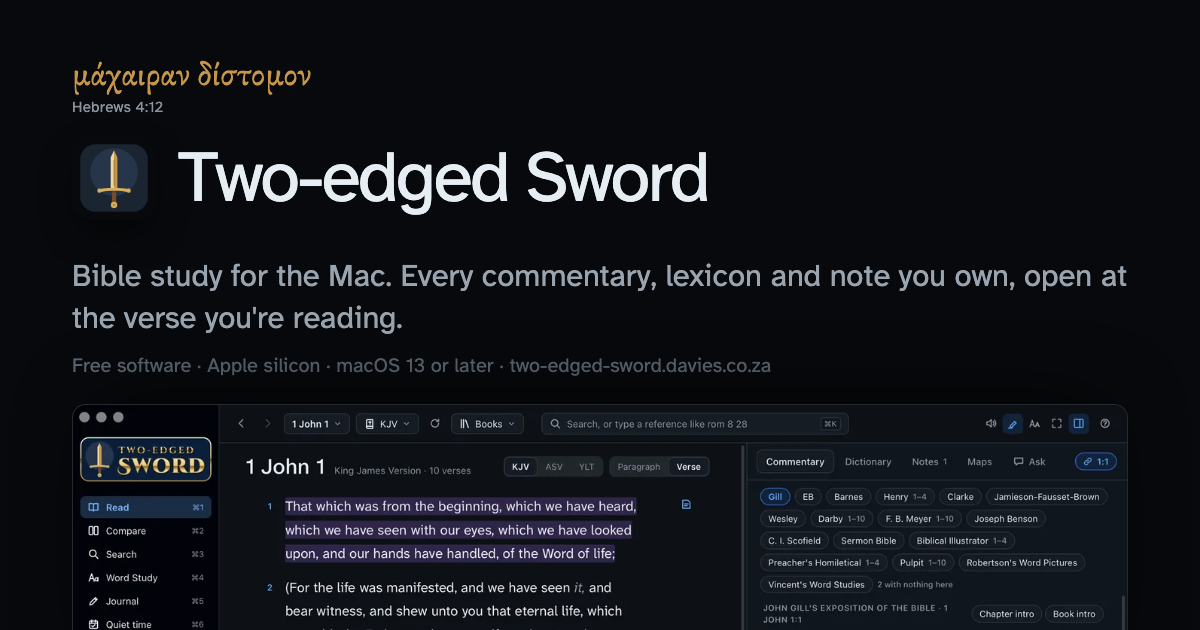
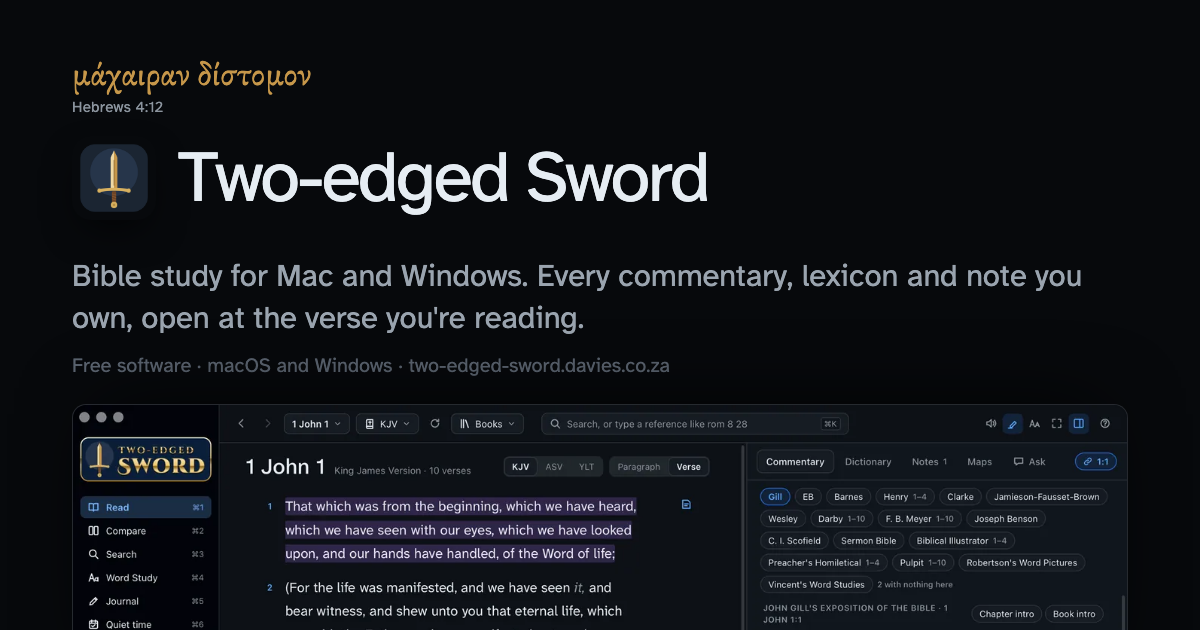
The app is for macOS and Windows, as the README, the guides and the website now say: a Windows download (Two-edged-Sword_x64-setup.exe from the latest release) and its first run beside the Mac's, an On Windows section in the help listing what differs there, Check for Updates… where Windows has it, t

Changed region(s): [[0.0617, 0.4825, 0.4933, 0.5429], [0.2158, 0.4222, 0.9558, 0.4825], [0.1542, 0.573, 0.6475, 0.6032]]

diff --git a/site/index.html b/site/index.html
@@ -3,8 +3,8 @@
 <head>
 <meta charset="utf-8">
 <meta name="viewport" content="width=device-width, initial-scale=1">
-<title>Two-edged Sword: Bible study for Mac</title>
-<meta name="description" content="Two-edged Sword is a free Bible study app for the Mac: every commentary, lexicon and note you own, open at the verse you're reading, with Greek and Hebrew word by word, an AI assistant that answers from your library, a journal and Quiet time plans.">
+<title>Two-edged Sword: Bible study for Mac and Windows</title>
+<meta name="description" content="Two-edged Sword is a free Bible study app for Mac and Windows: every commentary, lexicon and note you own, open at the verse you're reading, with Greek and Hebrew word by word, an AI assistant that answers from your library, a journal and Quiet time plans.">
 <meta name="google-site-verification" content="i4TUXxiTMawK83ozrMTEYSBRZYrrRbZOhnqJokfEkfU">
 <link rel="canonical" href="https://two-edged-sword.davies.co.za/">
 <meta name="color-scheme" content="dark">
@@ -12,15 +12,15 @@
 <meta property="og:type" content="website">
 <meta property="og:site_name" content="Two-edged Sword">
 <meta property="og:url" content="https://two-edged-sword.davies.co.za/">
-<meta property="og:title" content="Two-edged Sword: Bible study for the Mac">
-<meta property="og:description" content="Every commentary, lexicon and note you own, open at the verse you're reading. Free for Mac.">
+<meta property="og:title" content="Two-edged Sword: Bible study for Mac and Windows">
+<meta property="og:description" content="Every commentary, lexicon and note you own, open at the verse you're reading. Free for Mac and Windows.">
 <meta property="og:image" content="https://two-edged-sword.davies.co.za/img/og.png">
 <meta property="og:image:width" content="1200">
 <meta property="og:image:height" content="630">
-<meta property="og:image:alt" content="Two-edged Sword reading 1 John 1 beside the commentaries, under the words Bible study for the Mac">
+<meta property="og:image:alt" content="Two-edged Sword reading 1 John 1 beside the commentaries, under the words Bible study for Mac and Windows">
 <meta name="twitter:card" content="summary_large_image">
-<meta name="twitter:title" content="Two-edged Sword: Bible study for the Mac">
-<meta name="twitter:description" content="Every commentary, lexicon and note you own, open at the verse you're reading. Free for Mac.">
+<meta name="twitter:title" content="Two-edged Sword: Bible study for Mac and Windows">
+<meta name="twitter:description" content="Every commentary, lexicon and note you own, open at the verse you're reading. Free for Mac and Windows.">
 <meta name="twitter:image" content="https://two-edged-sword.davies.co.za/img/og.png">
 <link rel="icon" href="img/icon.png">
 <link rel="apple-touch-icon" href="img/icon-180.png">
@@ -31,10 +31,10 @@
   "@type": "SoftwareApplication",
   "name": "Two-edged Sword",
   "url": "https://two-edged-sword.davies.co.za/",
-  "description": "A Bible study app for macOS: Bibles, commentaries, dictionaries and books beside your own notes, with Greek and Hebrew word by word, an AI assistant that answers from your library, a journal and Quiet time plans.",
+  "description": "A Bible study app for macOS and Windows: Bibles, commentaries, dictionaries and books beside your own notes, with Greek and Hebrew word by word, an AI assistant that answers from your library, a journal and Quiet time plans.",
   "applicationCategory": "EducationalApplication",
-  "operatingSystem": "macOS 13 or later (Apple silicon)",
-  "downloadUrl": "https://github.com/waynetd777/two-edged-sword/releases/latest/download/Two-edged-Sword.dmg",
+  "operatingSystem": "macOS 13 or later (Apple silicon), Windows 10 or later (64-bit)",
+  "downloadUrl": ["https://github.com/waynetd777/two-edged-sword/releases/latest/download/Two-edged-Sword.dmg", "https://github.com/waynetd777/two-edged-sword/releases/latest/download/Two-edged-Sword_x64-setup.exe"],
   "image": "https://two-edged-sword.davies.co.za/img/og.png",
   "screenshot": "https://two-edged-sword.davies.co.za/img/read.webp",
   "license": "https://www.gnu.org/licenses/gpl-3.0.html",
@@ -84,12 +84,13 @@
   </div>
 
   <h1>Two-edged Sword</h1>
-  <p class="tagline">Bible study for the Mac. Every commentary, lexicon and note you own, open at the verse you're reading.</p>
+  <p class="tagline">Bible study for Mac and Windows. Every commentary, lexicon and note you own, open at the verse you're reading.</p>
   <p class="actions">
     <a class="button primary" href="https://github.com/waynetd777/two-edged-sword/releases/latest/download/Two-edged-Sword.dmg">Download for Mac</a>
+    <a class="button primary" href="https://github.com/waynetd777/two-edged-sword/releases/latest/download/Two-edged-Sword_x64-setup.exe">Download for Windows</a>
     <a class="button" href="https://github.com/waynetd777/two-edged-sword/blob/main/docs/features.md">Read the guide</a>
   </p>
-  <p class="fine">Free software. Apple silicon, macOS 13 or later.</p>
+  <p class="fine">Free software. Mac: Apple silicon, macOS 13 or later. Windows: 10 or 11, 64-bit.</p>
 
   <div class="stage">
     <figure class="shot hero-shot" id="heroShot">
@@ -162,7 +163,7 @@
   <div class="wrap split flip">
     <div class="text">
       <h2>Hear it read, word by word.</h2>
-      <p>Anything in the app can be read aloud, each word lit as it's spoken: a chapter, a book, a journal entry. It uses the voices on your Mac, and Hebrew, Greek and Latin Bibles are read in their own tongue.</p>
+      <p>Anything in the app can be read aloud, each word lit as it's spoken: a chapter, a book, a journal entry. It uses your computer's voices, and Hebrew, Greek and Latin Bibles are read in their own tongue.</p>
       <blockquote class="spoken" aria-hidden="true">
         <span>This</span> <span>then</span> <span>is</span> <span>the</span> <span>message</span> <span>which</span> <span>we</span> <span>have</span> <span>heard</span> <span>of</span> <span>him,</span> <span>and</span> <span>declare</span> <span>unto</span> <span>you,</span> <span>that</span> <span>God</span> <span>is</span> <span>light,</span> <span>and</span> <span>in</span> <span>him</span> <span>is</span> <span>no</span> <span>darkness</span> <span>at</span> <span>all.</span>
         <cite>1 John 1:5</cite>
@@ -178,7 +179,7 @@
   <div class="wrap">
     <div class="lede">
       <h2>Ask, and it answers from your own shelves.</h2>
-      <p>Ask a question about the passage and the assistant reads your commentaries, lexicons and dictionaries to answer it, naming its source for each point, and saying when your library has nothing. It runs an AI tool you already have on this Mac.</p>
+      <p>Ask a question about the passage and the assistant reads your commentaries, lexicons and dictionaries to answer it, naming its source for each point, and saying when your library has nothing. It runs an AI tool you already have on your computer.</p>
     </div>
     <div class="tour rise" data-auto="4500">
       <figure class="shot">
@@ -293,7 +294,7 @@
     <div class="text">
       <h2>Comes with a library. Reads yours too.</h2>
       <p>Out of the box: the King James with Strong's numbers, Strong's Hebrew and Greek dictionaries, the Treasury of Scripture Knowledge, Matthew Henry's commentary and Easton's dictionary. All public domain.</p>
-      <p>It reads e‑Sword X's Mac modules you own and its library if you have it. Books and devotionals get the same tools as Scripture.</p>
+      <p>It reads modules you own in e‑Sword X's formats and, on a Mac, e‑Sword X's library if you have it. Books and devotionals get the same tools as Scripture.</p>
       <p class="note">Build more from free sources with the scripts in the source code: the Targums and the Talmud, the Clementine Vulgate, the Peshitta, Beza's Greek New Testament, Brenton's Septuagint, Tyndale and the Geneva Bible.</p>
     </div>
     <figure class="shot rise">
@@ -321,8 +322,8 @@
         <p>Journal entries are Markdown files you can open in any editor. They'll outlive any app.</p>
       </li>
       <li>
-        <h3>Your account, your Mac</h3>
-        <p>Ask signs in as you, through your own AI tool, and the chats stay on this Mac.</p>
+        <h3>Your account, your computer</h3>
+        <p>Ask signs in as you, through your own AI tool, and the chats stay on your computer.</p>
       </li>
     </ul>
   </div>
@@ -332,15 +333,23 @@
   <div class="wrap">
     <img class="big-icon" src="img/icon.png" alt="" width="96" height="96">
     <h2>Two-edged Sword</h2>
-    <p class="tagline">For a Mac with Apple silicon, running macOS 13 or later.</p>
+    <p class="tagline">For a Mac with Apple silicon running macOS 13 or later, or a PC running Windows 10 or 11 (64-bit).</p>
     <p class="actions">
       <a class="button primary" href="https://github.com/waynetd777/two-edged-sword/releases/latest/download/Two-edged-Sword.dmg">Download for Mac</a>
+      <a class="button primary" href="https://github.com/waynetd777/two-edged-sword/releases/latest/download/Two-edged-Sword_x64-setup.exe">Download for Windows</a>
       <a class="button" href="https://github.com/waynetd777/two-edged-sword">View on GitHub</a>
     </p>
+    <h3 class="firstrun-os">On a Mac</h3>
     <ol class="firstrun">
       <li>Open the disk image and drag Two-edged Sword onto Applications.</li>
       <li>Open it once. macOS says it can't check the app, because it isn't notarised by Apple. Click Done.</li>
       <li>In System Settings › Privacy &amp; Security, click Open Anyway. It opens normally after that.</li>
+    </ol>
+    <h3 class="firstrun-os">On Windows</h3>
+    <ol class="firstrun">
+      <li>Run the installer. It installs for you alone, with no administrator password.</li>
+      <li>If Windows says it protected your PC, click More info, then Run anyway: the app isn't code-signed.</li>
+      <li>Open Two-edged Sword from the Start menu.</li>
     </ol>
   </div>
 </section>

diff --git a/tools/og.html b/tools/og.html
@@ -31,8 +31,8 @@
 <body>
   <div class="greek">μάχαιραν δίστομον<small>Hebrews 4:12</small></div>
   <div class="brand"><img src="../site/img/icon.png" alt=""><h1>Two-edged Sword</h1></div>
-  <p>Bible study for the Mac. Every commentary, lexicon and note you own, open at the verse you're reading.</p>
-  <div class="fine">Free software · Apple silicon · macOS 13 or later · two-edged-sword.davies.co.za</div>
+  <p>Bible study for Mac and Windows. Every commentary, lexicon and note you own, open at the verse you're reading.</p>
+  <div class="fine">Free software · macOS and Windows · two-edged-sword.davies.co.za</div>
   <div class="shot"><img src="../site/img/read.webp" alt=""></div>
 </body>
 </html>

diff --git a/site/landing.css b/site/landing.css
@@ -718,6 +718,15 @@ p {
 .firstrun li::marker {
   color: var(--gold);
 }
+.firstrun-os {
+  max-width: 560px;
+  margin: 44px auto 0;
+  text-align: left;
+  font-size: 17px;
+}
+.firstrun-os + .firstrun {
+  margin-top: 4px;
+}
 
 footer {
   padding: 48px 0 56px;

diff --git a/README.md b/README.md
@@ -1,14 +1,17 @@
 # Two-edged Sword
 
-A Bible study app for macOS, for reading Bibles, commentaries, dictionaries and books beside your own
-notes. It comes with the KJV, Strong's dictionaries, the Treasury of Scripture Knowledge, Matthew Henry's
-commentary and Easton's Bible Dictionary, and reads
-more modules in e-Sword X's formats: your own, and e-Sword X's library if you have it.
+A Bible study app for macOS and Windows, for reading Bibles, commentaries, dictionaries and books
+beside your own notes. It comes with the KJV and five more public-domain Bibles, Strong's
+dictionaries, the Treasury of Scripture Knowledge, four commentaries (Matthew Henry, JFB, Clarke,
+Barnes) and four dictionaries (Easton's, Smith's, Nave's, the ISBE), and reads more modules in
+e-Sword X's formats: your own, and on a Mac e-Sword X's library if you have it.
 It only reads them, and keeps your journal, highlights and plans separately.
 
 See it on the [Two-edged Sword website](https://two-edged-sword.davies.co.za/).
 
 ## Download
+
+### Mac
 
 For a Mac with Apple silicon (M1 or later) and macOS 13 or later.
 
@@ -19,7 +22,18 @@ For a Mac with Apple silicon (M1 or later) and macOS 13 or later.
 
 It opens normally after that. The first time you use some features, macOS asks for permission: see [First run](docs/features.md#first-run).
 
-The app checks for updates once a day and offers to install them; **Check for Updates…** in the app menu checks now.
+### Windows
+
+For Windows 10 or 11, 64-bit.
+
+1. Download [Two-edged-Sword_x64-setup.exe](https://github.com/waynetd777/two-edged-sword/releases/latest/download/Two-edged-Sword_x64-setup.exe) from the [latest release](https://github.com/waynetd777/two-edged-sword/releases/latest).
+2. Run it. It installs for you alone, with no administrator password.
+3. If Windows says it protected your PC, click **More info**, then **Run anyway**: the app isn't code-signed.
+4. Open Two-edged Sword from the Start menu.
+
+A few things differ on Windows: see [On Windows](docs/features.md#on-windows).
+
+The app checks for updates once a day and offers to install them. **Check for Updates…** checks now: in the app menu on a Mac, and in the notification-area menu or Settings on Windows.
 
 <a href="docs/images/index.md#the-readme"><picture><source media="(prefers-color-scheme: dark)" srcset="docs/images/read-dark.png"><img alt="Reading 1 John 1 with the study pane open on the commentaries" src="docs/images/read-light.png"></picture></a>
 
@@ -78,6 +92,10 @@ make dev                                  # the app with hot reload
 cp signing.local.example signing.local    # then name your signing certificate in it
 make install-app                          # build it and put it in /Applications
 ```
+
+On Windows (10 or 11) it needs Rust, Node, Python and Visual Studio Build Tools with the C++
+workload: `npx tauri build --debug --no-bundle` builds the app and `npx tauri build` the installer
+(see [Development](docs/development.md#commands)).
 
 Without a signing certificate, macOS asks for access to e-Sword's data after every build, if you have e-Sword X
 ([Signing and Full Disk Access](docs/development.md#signing-and-full-disk-access)).

diff --git a/docs/features.md b/docs/features.md
@@ -1,10 +1,10 @@
 # Features
 
-A Bible study app for macOS, for reading Bibles, commentaries, dictionaries and books beside your own
-notes. It comes with the KJV, Strong's dictionaries, the Treasury of Scripture Knowledge, four
-commentaries (Matthew Henry, JFB, Clarke, Barnes) and four dictionaries (Easton's, Smith's, Nave's,
-the ISBE), and reads
-more modules in e-Sword X's formats: your own, and e-Sword X's library if you have it.
+A Bible study app for macOS and Windows, for reading Bibles, commentaries, dictionaries and books
+beside your own notes. It comes with the KJV and five more public-domain Bibles, Strong's
+dictionaries, the Treasury of Scripture Knowledge, four commentaries (Matthew Henry, JFB, Clarke,
+Barnes) and four dictionaries (Easton's, Smith's, Nave's, the ISBE), and reads more modules in
+e-Sword X's formats: your own, and on a Mac e-Sword X's library if you have it.
 It only reads them, and keeps your journal, highlights and plans separately.
 
 | Page | What's in it |
@@ -35,14 +35,36 @@ After that, macOS asks once for each thing the app uses:
 
 Something refused by mistake can be allowed in System Settings › Privacy & Security.
 
+On Windows, if Windows says it protected your PC when you run the installer, click **More info**,
+then **Run anyway**: the app isn't code-signed. It installs for you alone, with no administrator
+password, and asks for nothing more.
+
 ## Updates
 
 - The app checks for a new version once a day, and soon after it opens.
 - When there is one, it asks the next time its window is in front, with what's new in it:
   **Install and Restart**, **Later** (asked again the next day) or **Skip This Version**. Esc is Later.
 - Installing shows the download's progress, saves your work and restarts the app.
-- **Check for Updates…**, in the app menu, checks now.
+- **Check for Updates…** checks now: in the app menu on a Mac, and in the notification-area menu
+  or at the foot of Settings on Windows. On Windows an update installs with a progress window and
+  reopens the app.
 - An update waits while Ask is answering or the search index is being built.
+
+
+## On Windows
+
+The app works the same on Windows, with these differences:
+
+| | On Windows |
+|---|---|
+| Shortcuts | Ctrl in place of ⌘, as the menus and the help show them |
+| e-Sword | e-Sword for Windows' modules can't be read: their text is encrypted. Modules in e-Sword X's formats work, in the [modules folder](library.md) |
+| Your data | In `%APPDATA%\Two-edged Sword` |
+| Voices | Windows' own: add more, Hebrew and Greek included, as [Better voices](reading.md#better-voices) says |
+| Spelling and grammar | Windows' spell checker, and grammar by Harper, on the PC |
+| Worship songs | The music files in your Music folder, played by the app ([Worship music](quiet-time.md#worship-music)) |
+| The menu bar icon | In the notification area, by the clock, with Help and Check for Updates… |
+| Ask | Each AI tool is installed in your Windows account ([Ask](ask.md#claude-code-codex-antigravity-or-copilot)) |
 
 ## Getting around
 

diff --git a/docs/ask.md b/docs/ask.md
@@ -6,7 +6,7 @@ Ask answers questions about whatever you're looking at: a passage, a word, searc
 journal entry or a book. It answers from your own commentaries, lexicons and dictionaries, and
 names its sources.
 
-- Chats stay on this Mac. Find them under **Recent** on any Ask panel.
+- Chats stay on your computer. Find them under **Recent** on any Ask panel.
 - Opening an old chat takes you back to where it started.
 - An answer can be added to your journal in one click.
 - After each answer the box offers a next question in grey; → or Tab types it in. Settings › AI assistant › **Suggest a next question** turns it off.

diff --git a/docs/reading.md b/docs/reading.md
@@ -92,7 +92,7 @@ The keyboard's media keys and headphone buttons work too.
 
 ### Better voices
 
-The app uses the voices installed on your Mac. The **Premium** ones sound far more natural:
+On a Mac the app uses the voices installed on it. The **Premium** ones sound far more natural:
 
 1. Open System Settings › Accessibility › Spoken Content › System voice › Manage Voices.
 2. Under English, download a voice marked (Premium), such as Zoe or Ava (US), or Jamie (UK).

diff --git a/docs/library.md b/docs/library.md
@@ -65,7 +65,8 @@ The app reads e-Sword X's Mac formats:
 | `.devi` | Devotionals |
 
 It doesn't read the Windows formats (`.bblx`, `.cmtx` and so on), EPUB or SWORD modules. Where a
-module comes in both, take the Mac one.
+module comes in both, take the Mac one. That holds on Windows too: e-Sword for Windows encrypts its
+modules' text.
 
 ## Adding modules
 
